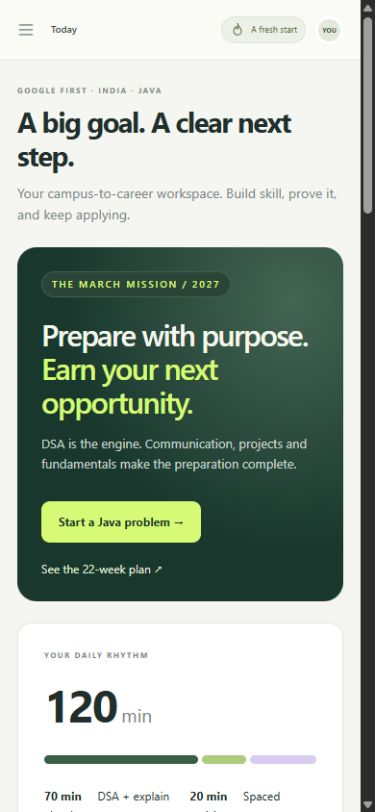
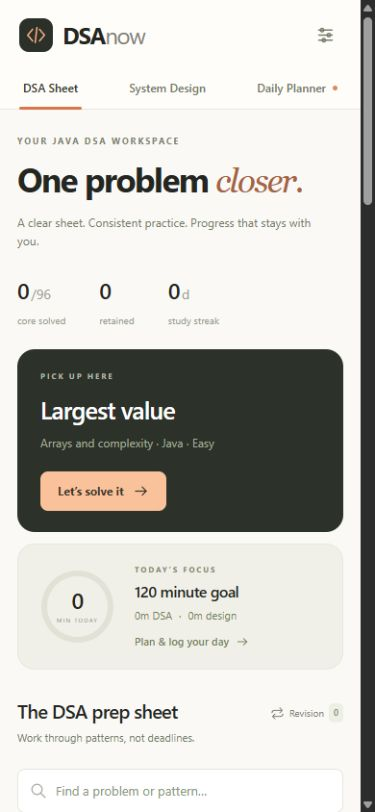
Focus DSA workspace and add daily study calendar

diff --git a/dist/studio.css b/dist/studio.css
@@ -1,0 +1,10 @@
+:root{--ink:#242622;--muted:#83857d;--green:#d96232;--lime:#ffb583;--paper:#faf9f6;--line:#e8e7e0;--nav:#252923;--sage:#edf1e9;--violet:#f0edfa;--peach:#fbede2;--shadow:0 2px 5px #25292302}body{background:var(--paper);font-family:'Segoe UI',Arial,sans-serif;font-size:14px;color:var(--ink)}button,input,select,textarea{font-family:inherit}button,a,input,summary,select,textarea{-webkit-tap-highlight-color:transparent}button:focus-visible,a:focus-visible,summary:focus-visible{outline:3px solid #e8875e;outline-offset:4px}::selection{background:#ffd8bd;color:#382819}.studio-header{height:88px;display:flex;align-items:center;justify-content:space-between;gap:28px;padding:0 max(32px,calc((100vw - 1320px)/2));border-bottom:1px solid var(--line);background:#fffdf9}.studio-brand{display:flex;align-items:center;gap:10px;white-space:nowrap}.studio-brand b{font-size:25px;letter-spacing:-1.3px}.studio-brand b>span{font-weight:400;color:#7c8075}.studio-mark{background:#2c302a;color:#ffb583;width:35px;height:35px;border-radius:10px;display:grid;place-items:center}.studio-header nav{display:flex;align-self:stretch;gap:28px}.studio-header nav>a{position:relative;display:flex;align-items:center;gap:7px;font-size:13px;font-weight:600;color:#888b81}.studio-header nav>a.active{color:#30352b}.studio-header nav>a.active:after{content:'';position:absolute;height:3px;background:#dd7549;bottom:-1px;left:0;right:0;border-radius:3px}.nav-dot{width:5px;height:5px;border-radius:50%;background:#d98b65}.studio-tools{display:flex;align-items:center;gap:15px}.save-state{font-size:11px;color:#91958b}.save-state:before{content:'';display:inline-block;width:5px;height:5px;border-radius:50%;background:#87a179;margin-right:7px}.studio main{max-width:1320px;padding:45px 32px 0;margin:auto}.sheet-heading{display:flex;justify-content:space-between;align-items:center;gap:35px;margin-bottom:31px}.eyebrow{font-size:9px;letter-spacing:1.9px;color:#8a8d83;font-weight:650;margin-bottom:12px}.sheet-heading h1{font-size:clamp(34px,3.6vw,47px);letter-spacing:-2.2px;font-weight:650;line-height:1.13}.sheet-heading h1>span{font-family:Georgia,serif;font-style:italic;font-weight:400;color:#a76240}.sheet-heading p{font-size:13px;color:#8c8d85;margin-top:13px}.heading-metrics{display:flex;gap:33px;padding-left:22px}.heading-metrics>div{display:flex;flex-direction:column;gap:6px}.heading-metrics b{font-size:28px;letter-spacing:-1.5px;font-weight:600;white-space:nowrap}.heading-metrics small{font-size:14px;color:#999c92;font-weight:400;margin-left:3px;letter-spacing:0}.heading-metrics span{font-size:10px;color:#969a90}.focus-strip{display:grid;grid-template-columns:minmax(0,1.8fr) minmax(280px,1fr);gap:20px;margin-bottom:37px}.next-problem{background:#2c312a;border-radius:18px;color:#fff;padding:27px 29px;display:flex;justify-content:space-between;gap:20px;position:relative;overflow:hidden;align-items:center}.next-problem .eyebrow{color:#b2b9a6;font-size:8px;letter-spacing:2px}.next-problem h2{font-size:25px;font-weight:500;letter-spacing:-.7px;max-width:370px}.next-problem p{color:#a4ae98;font-size:11px;margin:10px 0 21px}.btn{border-radius:8px;font-size:12px;min-height:40px;padding:11px 17px}.btn.primary{background:#db764a;color:#fffdf8}.btn.primary:hover{background:#c86338}.next-problem .btn.primary{background:#fac29b;color:#3c352c}.btn.outline{color:#62695c;background:#fff;border-color:#e4e5dc}.text-link{color:#a15d37;font-size:12px}.text-button{color:#808477;font-size:11px}.icon-button{color:#777e6c}.icon-button:hover{background:#f0eee7}.code-art{flex:0 0 211px;transform:rotate(5deg);border:1px solid #65705255;background:#232920;border-radius:10px;padding:13px 16px;box-shadow:0 12px 28px #0002;font:11px/1.9 Consolas,monospace;color:#b7c6a1}.code-art-top{display:flex;gap:4px;align-items:center;margin-bottom:14px}.code-art-top i{width:5px;height:5px;border-radius:50%;background:#727b61}.code-art-top i:first-child{background:#d2a382}.code-art-top span{margin-left:auto;font-size:8px;color:#869474}.code-art-line em{font-style:normal;color:#546249;margin-right:8px;font-size:9px}.code-art-line>span{color:#e8ac7c}.code-art-check{font:8px 'Segoe UI',sans-serif;display:flex;gap:5px;align-items:center;border-top:1px solid #75805e33;margin-top:12px;padding-top:10px;color:#9cae86}.daily-pulse{background:#f1f0e8;border:1px solid #e8e6db;border-radius:18px;padding:25px;display:flex;align-items:center;gap:24px}.pulse-ring{--pct:0%;background:conic-gradient(#d48456 var(--pct),#e2e1d6 0);height:92px;width:92px;border-radius:50%;display:grid;place-items:center;flex-shrink:0;transform:rotate(-30deg)}.pulse-ring>div{width:78px;height:78px;background:#f1f0e8;border-radius:50%;display:flex;align-items:center;justify-content:center;flex-direction:column;transform:rotate(30deg)}.pulse-ring b{font-size:28px;letter-spacing:-1px;font-weight:500;line-height:1.1}.pulse-ring span{font-size:6px;letter-spacing:1.3px;margin-top:4px;color:#919486}.daily-pulse .eyebrow{font-size:8px}.daily-pulse h3{font-size:18px;letter-spacing:-.5px;font-weight:550}.daily-pulse p{font-size:11px;color:#929487;margin:9px 0 16px}.daily-pulse p span{padding:0 4px}.daily-pulse a{font-size:11px;font-weight:550;display:flex;align-items:center;gap:7px;color:#727864}.sheet-body{display:grid;grid-template-columns:minmax(0,1fr) 252px;gap:27px}.sheet-catalog{min-width:0}.catalog-title{display:flex;justify-content:space-between;align-items:center;margin-bottom:22px;gap:14px}.catalog-title h2{font-size:22px;font-weight:600;letter-spacing:-.7px}.catalog-title h2>span{font:9px Consolas,monospace;letter-spacing:1px;background:#efeee6;color:#8c8b7f;border:1px solid #e6e4d9;padding:4px 7px;border-radius:4px;margin-left:8px;vertical-align:middle}.catalog-title p{font-size:11px;color:#93968c;margin-top:7px}.review-shortcut{display:flex;align-items:center;gap:7px;font-size:11px;color:#7f8674}.review-shortcut b{background:#ecefe4;border-radius:5px;padding:3px 5px;font-size:9px;font-weight:500}.sheet-toolbar{display:flex;gap:14px;justify-content:space-between;align-items:center;margin-bottom:12px}.sheet-search{display:flex;align-items:center;gap:9px;background:#fff;border:1px solid #e5e6de;border-radius:8px;padding:0 12px;flex:1;min-width:0;color:#a7aa9f}.sheet-search input{background:none;border:0;width:100%;outline:none;font-size:12px;padding:12px 0;color:#454b3b}.sheet-search:focus-within{border-color:#d58961;box-shadow:0 0 0 3px #d5896115}.sheet-search input::placeholder{color:#a9ada2}.sheet-tracks{display:flex;gap:2px;background:#efeee8;border:1px solid #e6e5dc;border-radius:8px;padding:3px}.sheet-tracks button{border:0;background:transparent;border-radius:5px;font-size:10px;padding:8px 11px;color:#96998c;white-space:nowrap}.sheet-tracks .selected{background:#fff;color:#535e44;box-shadow:0 1px 3px #2429230e}.sheet-filters{display:flex;align-items:center;gap:12px;margin-bottom:18px}.sheet-filters label{display:flex;gap:6px;align-items:center}.sheet-filters label>span{font-size:10px;color:#a2a598}.sheet-filters select{font:11px 'Segoe UI',sans-serif;color:#7d8572;border:0;background:none;padding:5px 0;max-width:153px}.sheet-filters>span{margin-left:auto;font-size:10px;color:#a0a697}.sheet-topic{background:#fff;border:1px solid #e4e6dc;border-radius:10px;overflow:hidden;margin-bottom:11px;box-shadow:0 2px 3px #30392a02}.sheet-topic summary{display:flex;gap:13px;align-items:center;padding:17px 20px;cursor:pointer;list-style:none}.sheet-topic summary::-webkit-details-marker{display:none}.sheet-topic summary:hover{background:#fcfcf8}.topic-monogram{background:#f1f1e8;border:1px solid #e6e8dd;color:#9aa18b;font-size:14px;font-family:Georgia,serif;font-style:italic;width:35px;height:35px;border-radius:8px;display:grid;place-items:center}.sheet-topic[open] .topic-monogram{background:#fbebdf;color:#b5754e;border-color:#f3dcca}.sheet-topic summary>div:first-of-type{flex:1}.sheet-topic h3{font-size:14px;letter-spacing:-.2px;font-weight:600}.sheet-topic summary>div:first-of-type>span{font-size:9px;color:#a0a795;display:block;margin-top:5px}.topic-meter{display:flex;align-items:center;gap:13px}.topic-meter>span{font-size:11px;color:#748164;font-weight:550}.topic-meter small{color:#afb6a2;font-size:10px;font-weight:400}.topic-meter>i{width:55px;height:3px;background:#eff0e7;display:block;border-radius:3px}.topic-meter b{display:block;background:#9eb185;height:3px;border-radius:3px}.sheet-topic summary>svg{color:#aab49b;transition:transform .2s}.sheet-topic[open] summary>svg{transform:rotate(90deg)}.sheet-columns{display:grid;grid-template-columns:minmax(0,1fr) 76px 106px 30px;font-size:7px;letter-spacing:1.3px;color:#a8af9c;padding:10px 20px 9px 66px;background:#f9faf5;border-top:1px solid #eef0e7}.sheet-problem{display:grid;grid-template-columns:27px minmax(0,1fr) 76px 106px 30px;gap:0;align-items:center;padding:16px 20px;border-top:1px solid #f1f2ed;min-height:68px}.sheet-problem:hover{background:#fdfcf8}.solve-marker{width:19px;height:19px;border:1px solid #e3e7d9;border-radius:5px;background:#fff;font:8px Consolas,monospace;color:#afb69f;display:grid;place-items:center}.solve-marker.solved{background:#edf2df;color:#6a8250;border-color:#ceddba}.sheet-problem-title{border:0;background:none;text-align:left;color:#505944;font-size:12px;font-weight:500;padding:0 13px 0 0;line-height:1.5}.sheet-problem-title small{display:block;font-size:8px;font-weight:400;color:#adb59d;letter-spacing:.3px;margin-top:4px}.level{font-size:9px;display:flex;align-items:center;gap:4px;color:#8b8d7b}.level:before{content:'';width:4px;height:4px;border-radius:50%;background:currentColor}.level-easy{color:#8c9d6d}.level-medium{color:#bd9560}.level-hard{color:#c88772}.sheet-status{font-size:9px;color:#b0b6a3}.sheet-status.complete{color:#85975e}.row-arrow{border:0;background:none;color:#adb69f;padding:4px}.row-arrow:hover{color:#bc7548}.sheet-rail{padding-top:1px}.rail-progress{border:1px solid #e5e6db;background:#f5f5ed;border-radius:12px;padding:24px;margin-bottom:15px}.rail-progress .eyebrow{font-size:8px}.core-percent{font-size:49px;letter-spacing:-3px;font-weight:350;color:#7e8b69;line-height:1;margin:23px 0 17px}.core-percent span{font-size:23px;margin-left:3px}.rail-progress h3{font-size:15px;font-weight:500;line-height:1.5;max-width:150px;color:#727c61}.rail-bar{height:4px;background:#e5e8d9;border-radius:3px;margin:19px 0 14px}.rail-bar i{height:4px;background:#9fae7c;display:block;border-radius:3px}.rail-progress p{font-size:10px;color:#9da38d;line-height:1.9}.rail-method{padding:20px 7px}.rail-method .eyebrow{font-size:8px}.rail-method>div{display:flex;gap:13px;margin-top:23px}.rail-method b{font-size:9px;color:#c1a184;font-family:Consolas,monospace;border:1px solid #e7dfd3;border-radius:50%;height:24px;width:24px;display:grid;place-items:center;flex-shrink:0}.rail-method strong{font-size:11px;font-weight:550;color:#7e866f}.rail-method small{font-size:9px;line-height:1.6;display:block;color:#a5ad98;margin-top:5px}.rail-note{border-top:1px dashed #dedfd2;margin-top:20px;padding:26px 7px;color:#b89979}.rail-note h3{font-size:12px;font-weight:550;color:#8b8f79;margin:11px 0 6px}.rail-note p{font-size:10px;line-height:1.8;color:#a6ad98}.studio-footer{display:flex;justify-content:space-between;gap:20px;align-items:center;padding:34px 0 25px;margin-top:30px;border-top:1px solid #e6e8de;font-size:10px;color:#a0a792}.studio-footer>div{display:flex;gap:22px;align-items:center}.studio-footer button{border:0;background:none;color:inherit;display:flex;align-items:center;gap:6px;font-size:10px}.studio-footer a:hover,.studio-footer button:hover{color:#a86e45}.studio-footer span{display:flex;align-items:center;gap:5px}.sheet-empty{padding:50px;text-align:center;background:#fff;border-radius:12px;border:1px solid var(--line)}.sheet-empty p{margin:12px 0 20px;color:var(--muted)}
+.planner-legend{display:flex;gap:17px;font-size:11px;color:#8e9681}.planner-legend span{display:flex;gap:6px;align-items:center}.planner-legend i{height:6px;width:6px;background:#d59266;border-radius:50%}.planner-legend span+span i{background:#949bba}.calendar-layout{display:grid;grid-template-columns:minmax(0,1fr) 320px;gap:26px;align-items:start}.calendar-card{background:#fff;border:1px solid #e4e7dc;border-radius:16px;overflow:hidden}.calendar-top{display:flex;justify-content:space-between;align-items:center;padding:25px}.calendar-top h2{font-size:23px;font-weight:500}.calendar-top>div{display:flex;gap:8px;align-items:center}.calendar-top .icon-button{font-size:25px}.calendar-top .btn{font-size:11px;padding:5px 15px;min-height:30px}.calendar-weekdays{display:grid;grid-template-columns:repeat(7,minmax(0,1fr));border-top:1px solid #eceee6;background:#fafbf7;padding:13px 0;text-align:center;font-size:10px;color:#a0a791}.calendar-grid{display:grid;grid-template-columns:repeat(7,minmax(0,1fr));}.calendar-day{min-width:0;min-height:112px;background:#fff;border:0;border-right:1px solid #eff1e9;border-top:1px solid #eff1e9;text-align:left;padding:10px 7px;display:flex;flex-direction:column;align-items:flex-start;gap:6px;position:relative;color:#727d61}.calendar-day:nth-child(7n){border-right:0}.calendar-day:hover{background:#fcf9f3}.calendar-day.outside{background:#fcfdf9;color:#cbd1c1}.calendar-day.selected{background:#fff5eb;box-shadow:inset 0 0 0 1px #dba579;z-index:1}.day-number{display:grid;place-items:center;width:23px;height:23px;font-size:11px}.is-today .day-number{background:#d18a5b;color:#fff;border-radius:50%}.calendar-events{display:flex;flex-direction:column;gap:4px;max-width:100%;width:100%}.calendar-chip{display:block;overflow:hidden;text-overflow:ellipsis;white-space:nowrap;border-radius:3px;font-size:8px;line-height:1.5;padding:3px 4px;background:#f8e8d9;color:#ae825d;max-width:100%}.calendar-chip.design{background:#ebedf5;color:#9199b2}.calendar-chip.done{text-decoration:line-through;opacity:.65}.calendar-events small{font-size:8px;color:#949f84}.calendar-time{font-size:8px;color:#8fa16f;margin-top:auto;padding-top:3px}.calendar-caption{padding:18px 22px;border-top:1px solid #eff1e9;font-size:10px;color:#9aa48b}.day-agenda{border:1px solid #e6e8dd;background:#fff;border-radius:14px;overflow:hidden}.agenda-heading{padding:24px 22px 19px;background:#f6f6ee;border-bottom:1px solid #e9ebde}.agenda-heading h2{font-size:20px;font-weight:500}.agenda-totals{display:flex;gap:36px;margin:20px 0 13px}.agenda-totals>div{display:flex;flex-direction:column;gap:3px}.agenda-totals b{font-size:30px;line-height:1.2;font-weight:500;letter-spacing:-1.1px;color:#717e5a}.agenda-totals small{font-size:13px;letter-spacing:0;margin-left:3px;color:#a3ad92}.agenda-totals span{font-size:9px;color:#acb39f}.time-breakdown{font-size:10px;color:#9ca78c}.time-breakdown>span{padding:0 5px}.day-plan-list{padding:0 21px}.day-plan{padding:20px 0;border-bottom:1px solid #eef0e5}.day-plan .eyebrow{font-size:8px;color:#bd9875;margin-bottom:6px;letter-spacing:.8px}.day-plan h3{font-size:14px;font-weight:550;line-height:1.5;color:#707d5f}.day-plan p{font-size:11px;color:#a0aa92;margin-top:7px;overflow-wrap:anywhere}.day-plan.done h3{text-decoration:line-through;color:#a2af90}.day-plan-actions{display:flex;justify-content:space-between;align-items:center;gap:6px;margin-top:10px}.day-plan-actions .text-link,.day-plan-actions .text-button{font-size:10px}.day-plan-actions .icon-button{width:25px;height:25px}.agenda-empty{padding:25px 0;font-size:12px;color:#899579}.agenda-empty p{font-size:11px;color:#b0b8a1;margin-top:5px}.planner-form-panel{border-top:1px solid #e9ecdf;margin:0 21px;padding:18px 0}.planner-form-panel summary{display:flex;align-items:center;gap:9px;font-size:12px;color:#7d8b6c;cursor:pointer;list-style:none}.planner-form-panel form{display:flex;flex-direction:column;gap:14px;padding-top:18px}.planner-form-panel label{display:flex;flex-direction:column;gap:7px;font-size:11px;color:#929e7e}.planner-form-panel input,.planner-form-panel select,.planner-form-panel textarea{width:100%;min-width:0;box-sizing:border-box;background:#fff;border:1px solid #dfe5d2;border-radius:6px;font-size:12px;padding:10px;color:#6b7c55;outline-color:#d19b70}.planner-form-panel label small{font-size:9px;display:inline}.planner-form-panel form p{font-size:11px;line-height:1.8;color:#a2ae8f}.planner-form-panel .form-error{color:#bd6a56}.session-mini{padding:20px 22px;background:#fcfdf8;border-top:1px solid #edf0e1}.session-mini h3{font-size:11px;font-weight:550;color:#8b9878;margin-bottom:12px}.session-mini>div{display:flex;justify-content:space-between;gap:10px;border-top:1px solid #f0f2e8;padding:10px 0;font-size:10px;color:#a7b395}.session-mini b{color:#889e6d;white-space:nowrap;font-weight:500}.session-mini p{font-size:11px;color:#a8b496}.back-sheet{display:inline-block;margin:0 0 25px;color:#b9835c;font-size:12px}.page-heading h1{font-size:38px;letter-spacing:-1.5px;font-weight:600}.page-heading p{font-size:14px;line-height:1.8}.design-layout{grid-template-columns:240px minmax(0,1fr);gap:25px}.design-weeks{padding:22px 14px;max-height:720px;overflow-y:auto;position:sticky;top:20px}.design-weeks h3{font-size:13px;padding:0 8px 13px;color:#8e967e}.design-weeks button{font-size:12px;min-height:45px;line-height:1.5}.design-weeks button.selected{background:#faecdf;color:#b2764b}.design-weeks button>span:first-child{color:#b5bda5;font-size:10px}.design-brief{padding:7px 0 25px}.design-brief h2{font-size:28px}.design-brief p{font-size:14px;line-height:1.8;color:#979f89}.checkpoint{font-size:12px;line-height:1.8}.form-card{padding:28px}.form-card label,.dialog-body label{font-size:12px!important}.form-card textarea,.form-card select,.form-card input,.dialog-body textarea,.dialog-body select,.dialog-body input{font-size:13px!important;line-height:1.7}.field-hint{font-size:11px;line-height:1.8}.dialog-header h2{font-size:28px}.task-prompt{font-size:15px}.dialog-body p{font-size:13px}.dialog-body .badge{font-size:10px}.form-error{font-size:12px}.badge{font-size:10px}.practice-table{font-size:12px}.practice-table th{font-size:10px}.problem-name{font-size:13px}.problem-meta{font-size:10px}.review-explainer p{font-size:12px;line-height:1.8}.empty-state p{font-size:13px}.event summary strong{font-size:13px}.event summary small{font-size:11px}.event-body p{font-size:13px;line-height:1.8;white-space:pre-wrap}.toast{font-size:13px}.legacy-header p,.legacy-day,.small-note{font-size:12px}.about-card p,.backup-card p{font-size:13px}.sheet-problem-title{font-size:13px}.sheet-problem-title small,.sheet-status,.level{font-size:10px}.rail-progress p,.rail-method small,.rail-note p{font-size:11px}.sheet-topic h3{font-size:15px}.sheet-topic summary>div:first-of-type>span{font-size:10px}.sheet-columns{font-size:8px}
+@media(min-width:1450px){.studio main{padding-left:20px;padding-right:20px}.next-problem{padding:29px 34px}.code-art{flex-basis:230px}.focus-strip{grid-template-columns:1.8fr 1fr}.next-problem h2{font-size:28px}}
+@media(max-width:1100px){.code-art{display:none}.focus-strip{grid-template-columns:1.2fr 1fr}.sheet-body{grid-template-columns:minmax(0,1fr) 205px;gap:20px}.daily-pulse{gap:15px;padding:20px}.pulse-ring{height:75px;width:75px}.pulse-ring>div{height:63px;width:63px}.pulse-ring b{font-size:23px}.heading-metrics{gap:20px}.calendar-layout{grid-template-columns:minmax(0,1fr) 285px;gap:16px}.calendar-day{min-height:95px}.calendar-top{padding:20px 16px}.calendar-chip{font-size:7px}.design-layout{grid-template-columns:205px minmax(0,1fr)}}
+@media(max-width:850px){.studio-header{padding:0 25px;gap:20px;height:77px}.studio-header nav{gap:20px}.save-state{display:none}.studio main{padding:32px 25px 0}.sheet-heading{gap:20px}.sheet-heading h1{font-size:36px}.heading-metrics{gap:18px;padding-left:0}.heading-metrics b{font-size:24px}.heading-metrics span{font-size:9px}.sheet-rail{display:none}.sheet-body{grid-template-columns:1fr}.calendar-layout{grid-template-columns:1fr}.day-agenda{display:grid;grid-template-columns:1fr 1fr}.agenda-heading{grid-column:1/-1}.day-plan-list{grid-column:1/-1}.session-mini{grid-column:1/-1}.planner-form-panel{margin:0;padding:20px;border-right:1px solid #e9ecdf}.calendar-day{min-height:105px}.calendar-chip{font-size:9px}.design-layout{grid-template-columns:1fr}.design-weeks{position:static;max-height:190px;display:flex;flex-wrap:wrap;gap:8px;padding:18px}.design-weeks h3{width:100%;padding:0;margin:0}.design-weeks button{width:auto;flex-basis:calc(50% - 5px);font-size:11px;margin:0;padding:9px}.studio-footer{font-size:9px}.studio-footer>div{gap:14px}.studio-footer>div>span{display:none}.page-heading h1{font-size:32px}.daily-pulse h3{font-size:16px}.daily-pulse a{font-size:10px}}
+@media(max-width:580px){.studio-header{height:auto;min-height:110px;flex-wrap:wrap;padding:18px 20px 0;gap:15px}.studio-brand b{font-size:24px}.studio-header nav{order:3;width:100%;justify-content:space-between;gap:10px;min-height:43px}.studio-header nav>a{font-size:12px;justify-content:center;padding:0 4px}.studio-tools{margin-left:auto}.studio main{padding:28px 18px 0}.sheet-heading{display:block;margin-bottom:24px}.sheet-heading h1{font-size:35px;letter-spacing:-1.6px}.sheet-heading p{font-size:12px;max-width:310px}.heading-metrics{margin-top:23px;gap:35px}.heading-metrics b{font-size:23px}.heading-metrics span{font-size:10px}.focus-strip{grid-template-columns:1fr;gap:12px;margin-bottom:28px}.next-problem{padding:24px;min-height:193px}.next-problem h2{font-size:25px}.next-problem p{font-size:12px;margin-bottom:19px}.daily-pulse{padding:20px 24px;gap:22px}.daily-pulse .eyebrow{margin-bottom:7px}.daily-pulse p{margin:6px 0 9px;font-size:11px}.daily-pulse a{font-size:11px}.catalog-title{align-items:flex-start;gap:12px}.catalog-title h2{font-size:20px}.catalog-title h2>span{display:none}.catalog-title p{font-size:11px}.review-shortcut{font-size:10px;padding-top:5px;gap:5px}.sheet-toolbar{flex-wrap:wrap;gap:11px}.sheet-search{flex-basis:100%}.sheet-tracks{width:100%}.sheet-tracks button{flex:1;font-size:11px;padding:9px}.sheet-filters{gap:10px;flex-wrap:wrap}.sheet-filters select{font-size:10px;max-width:125px}.sheet-filters label>span{display:none}.sheet-filters>span{font-size:9px}.sheet-topic summary{padding:16px 12px;gap:10px}.sheet-topic h3{font-size:14px;line-height:1.5}.topic-monogram{width:29px;height:31px}.topic-meter>i{display:none}.topic-meter>span{font-size:10px;white-space:nowrap}.sheet-topic summary>svg{width:13px}.sheet-columns{grid-template-columns:1fr 47px 0 23px;padding:9px 12px 9px 42px}.sheet-columns span:nth-child(3){visibility:hidden}.sheet-problem{grid-template-columns:25px minmax(0,1fr) 47px 0 23px;padding:15px 12px}.sheet-problem-title{font-size:12px;line-height:1.6;padding-right:7px}.sheet-problem-title small{font-size:8px;line-height:1.5}.sheet-status{display:none}.level{font-size:8px}.level:before{height:3px;width:3px}.row-arrow svg{width:15px}.studio-footer{flex-direction:column;align-items:flex-start;gap:16px;padding:25px 0}.studio-footer>div{width:100%;justify-content:space-between}.planner-legend{margin-top:18px;font-size:11px}.calendar-top{padding:20px 13px}.calendar-top h2{font-size:20px}.calendar-top>div{gap:1px}.calendar-top .btn{padding:5px 10px;font-size:10px}.calendar-top .icon-button{width:28px}.calendar-day{min-height:85px;padding:7px 3px;gap:4px}.calendar-chip{font-size:7px;padding:2px;line-height:1.5}.calendar-weekdays{font-size:9px;padding:10px 0}.day-number{font-size:10px;height:20px;width:20px}.calendar-time{font-size:7px;line-height:1.3}.calendar-caption{font-size:10px;padding:15px}.day-agenda{display:block}.planner-form-panel{border-right:0;margin:0 20px;padding:20px 0}.agenda-heading{padding:23px}.agenda-totals{gap:50px}.agenda-totals span{font-size:11px}.day-plan h3{font-size:15px}.day-plan .eyebrow{font-size:9px}.day-plan-actions .text-link,.day-plan-actions .text-button{font-size:12px}.planner-form-panel label,.planner-form-panel summary,.planner-form-panel input,.planner-form-panel select{font-size:13px}.session-mini h3,.session-mini>div{font-size:12px}.design-weeks button{flex-basis:100%;font-size:12px}.design-weeks{max-height:190px}.design-brief h2{font-size:26px}.design-brief p{font-size:13px}.page-heading h1{font-size:30px}.form-card{padding:22px}.dialog-header h2{font-size:24px}.sheet-empty{padding:28px}.dialog-body .form-grid{grid-template-columns:1fr!important}.dialog-body .form-grid .span-2{grid-column:1}.request-flow small{font-size:9px}.review-steps strong{font-size:21px}.practice-table td{font-size:11px}.practice-table .problem-name{font-size:12px}}
+@media(prefers-reduced-motion:reduce){*,*::before,*::after{transition:none!important;animation:none!important}}
+/* Keep the quieter palette readable at normal laptop sizes. */
+.studio-header nav>a{color:#72796a}.sheet-heading p,.catalog-title p{color:#747c69}.sheet-heading{margin-bottom:25px}.studio main{padding-top:34px}.next-problem{padding-top:22px;padding-bottom:22px}.code-art{font-size:10px;line-height:1.7}.code-art-top{margin-bottom:9px}.code-art-check{margin-top:8px;padding-top:8px}.focus-strip{margin-bottom:30px}.sheet-topic summary>div:first-of-type>span,.sheet-problem-title small{color:#858e78}.sheet-status{color:#87937b}.sheet-status.complete{color:#5e7745}.level-easy{color:#658044}.level-medium{color:#9a713c}.level-hard{color:#af6852}.sheet-columns{color:#869176}.daily-pulse p,.daily-pulse a{color:#727e60}.daily-pulse .eyebrow,.rail-progress .eyebrow,.rail-progress p,.rail-method small,.rail-note p{color:#7e896c}.calendar-weekdays,.calendar-caption,.time-breakdown,.agenda-totals span{color:#7c8b65}.calendar-day{color:#576b41}.calendar-day.outside{color:#b7c1aa}.calendar-chip{color:#8b5c38}.calendar-chip.design{color:#697499}.calendar-time{color:#638143}.day-plan p,.planner-form-panel label,.planner-form-panel form p,.session-mini p,.session-mini>div{color:#7d8e65}.calendar-caption p{font-size:11px;margin-bottom:12px}.calendar-caption small{display:block;margin-top:9px;font-size:10px}.calendar-caption .btn{font-size:11px}.planner-form-panel .form-error{color:#b45642}.save-state{color:#79846b}.eyebrow{color:#7b846e}.sheet-problem-title{color:#3f4c32}.sheet-topic h3{color:#38442c}.sheet-filters select{color:#65744e}.sheet-search input{font-size:13px}.sheet-search input::placeholder{color:#8a9679}.sheet-tracks button{font-size:11px}.studio-footer{color:#7d8b6a}.sheet-columns{padding-left:47px}.sheet-topic summary{min-height:74px}
+@media(max-width:580px){.studio main{padding-top:26px}.sheet-heading{margin-bottom:22px}.next-problem{min-height:185px}.sheet-columns{padding-left:37px}.sheet-tracks button{font-size:11px}.sheet-topic summary{min-height:70px}}

diff --git a/dist/index.html b/dist/index.html
@@ -3,12 +3,12 @@
 <head>
   <meta charset="UTF-8">
   <meta name="viewport" content="width=device-width, initial-scale=1">
-  <meta name="theme-color" content="#172a27">
-  <meta name="description" content="Your personal Java DSA and system design learning workspace. Practise, revisit, and see your progress.">
+  <meta name="theme-color" content="#fcfaf7">
+  <meta name="description" content="Java DSA, system design, and a daily study calendar. Plan your topics and track actual learning time.">
   <title>DSA Now — Your learning workspace</title>
   <link rel="icon" href="./favicon.svg" type="image/svg+xml">
   <link rel="stylesheet" href="./styles.css">
-  <link rel="stylesheet" href="./career.css">
+  <link rel="stylesheet" href="./studio.css">
   <script src="./curriculum.js"></script>
   <script type="module" src="./app.mjs"></script>
 </head>

diff --git a/README.md b/README.md
@@ -1,12 +1,13 @@
 # DSA Now
 
-A local Java DSA and career preparation tracker, focused on Google and other eligible India student / early-career software roles.
+A focused workspace for **Java DSA, system design and a daily study calendar**.
+Three main screens. No career dashboards or fixed 22-week schedule.
 
-![DSA Now dashboard](preview.png)
+![DSA sheet](preview.png)
 
 ## Run locally
 
-Use Node.js 20 or newer. No package installation is needed; there are no runtime dependencies.
+Node.js 20 or newer is required. No dependency installation is needed.
 
 ```sh
 git clone https://github.com/Mandar444/JAVA.git
@@ -14,31 +15,30 @@ cd JAVA
 npm start
 ```
 
-Open **http://127.0.0.1:48260**. On Windows, you can instead double-click `Start-DSA.cmd`; it checks the local bundled Node runtime and then Node on PATH. Run the launcher again after restarting your computer.
+Open http://127.0.0.1:48260. On Windows, double-click `Start-DSA.cmd` instead.
+Use the same browser and exact address to keep using the same local progress.
 
-The server listens only on `127.0.0.1`. Pushing this repository does not deploy the website.
+## Three screens
 
-## Features
+- **DSA Sheet:** 156 original Java exercises in 26 topic groups; 96 core and 60 optional. Search, filter, log attempts and revisit problems through the revision queue. Java help is available inside each problem.
+- **System Design:** 24 notebooks, starting with requests, APIs, databases and object design. Save notes, sketches, explanations and session time.
+- **Daily Planner:** choose a date, assign specific problems/design topics and estimate minutes. Log actual learning time separately. Calendar cells show planned topics and minutes actually learned.
 
-- 156 original Java DSA tasks: 96 core and 60 optional across 26 modules.
-- A 22-week plan: October 26, 2026 to March 31, 2027, including buffer days.
-- Adjustable two-hour daily rhythm: 70 minutes DSA, 20 revision, 30 supporting work.
-- Spaced revision, independent-solve evidence and retention tracking.
-- 29 milestones for CS fundamentals, a Java project, behavioral stories and career setup.
-- Mock feedback, application stages, activity history and a design notebook.
-- Targeted Java revision instead of restarting the language.
-- Company interview guidance with official sources checked October 26, 2026.
-- Responsive desktop/mobile UI and JSON backup import/export.
+**Plan next 7 days** fills unplanned study days starting from the selected date. It uses the daily goal and study-day count in Settings, prioritizes unsolved core problems and unreviewed design topics, and leaves already planned days alone. When both tracks have available topics, 75% of the daily budget goes to DSA and 25% to design. The default is 120 minutes, six study days.
 
-Exercises and mock scores are self-reported practice tools. The app does not execute Java or predict hiring outcomes. Interview formats vary by role, location and recruiter instructions. Plan dates are preparation targets, not company application deadlines.
+Marking a plan Done does not add learning time or independently solve a DSA problem. Actual minutes come from saved problem attempts, Java refreshers, design sessions and separate calendar time entries. Only add separate time that has not already been logged with a task. All completion and time are self-reported; the app does not execute or grade Java.
 
-## Your data
+## Progress and backups
 
-Progress stays in **IndexedDB in your browser profile**. Use the same browser and exact address every time. Different browsers, ports, `localhost` and `127.0.0.1` have separate storage.
+Data lives in IndexedDB in your browser profile. Different browsers, ports, domains and `localhost` versus `127.0.0.1` use separate storage. The site does not sync progress between devices.
 
-Use **Settings & backups → Export progress JSON** regularly. Clearing browser data can erase progress. Version 2 backups include attempts, design/Java sessions, preparation records, mocks, applications and preferences. Version 1 progress backups and the original Java planner backup format are also supported.
+Export JSON regularly using the footer or Settings. Clearing browser data may erase progress. Version 3 backups include calendar plans and time entries, and imports still accept versions 1 and 2. Older preparation records remain in the activity archive and backups even though their dashboards have been removed.
 
-The repository starts with empty progress. Personal planner records and browser databases are excluded. No accounts, analytics, cloud sync or automatic application submissions. External resource links require internet when opened.
+This repository contains no personal planner data. Import your own backup in Settings to restore progress on a new browser or domain.
+
+## Vercel
+
+`vercel.json` explicitly serves `dist` with no build/install step. Keep the project Root Directory at the repository root. A connected Vercel project redeploys when its production branch is updated.
 
 ## Development
 
@@ -46,14 +46,12 @@ The repository starts with empty progress. Personal planner records and browser 
 npm test
 ```
 
-The 14 tests cover reviews, migration, validation, backup compatibility, deduplication, merge conflicts and core-task coverage.
+18 tests cover DSA reviews, migration, backup compatibility, conflicts, calendar records and planned-versus-actual time. Use `node server.mjs 48262` for a separate test origin.
 
-- `dist/`: browser UI, curriculum, IndexedDB storage and progress logic.
-- `dist/career-data.mjs`: roadmap, milestones and official research sources.
-- `dist/career-domain.mjs` and `dist/career-ui.mjs`: preparation tracking and screens.
-- `tests/`: Node test suite.
-- `server.mjs`: local static server.
-- `Start-DSA.cmd` / `Start-DSA.ps1`: Windows launcher.
-- `README.txt`: detailed operating instructions.
-
-For an isolated test workspace, run `node server.mjs 48261`. Keep everyday progress on port 48260.
+- `dist/app.mjs`: application events, forms and existing study workflows.
+- `dist/study-ui.mjs`, `dist/studio.css`: three-screen interface and calendar.
+- `dist/study-domain.mjs`: calendar records and learning-time calculations.
+- `dist/domain.mjs`, `dist/store.mjs`: reviews, backups and IndexedDB persistence.
+- `dist/curriculum.js`: exercise and design content.
+- `dist/career-domain.mjs`, `dist/career-data.mjs`: compatibility for older preparation backups.
+- `server.mjs`: loopback-only local server.
